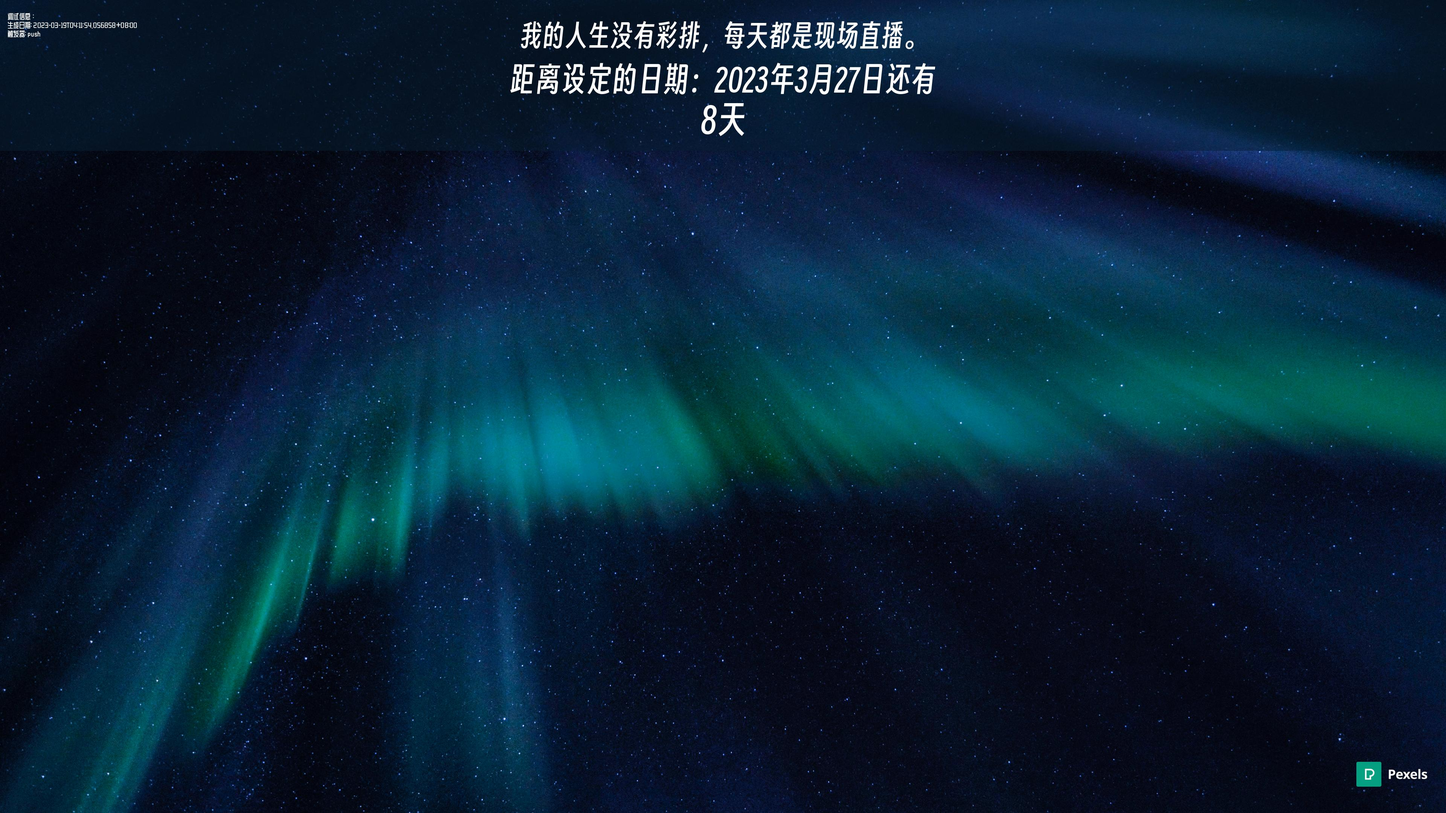
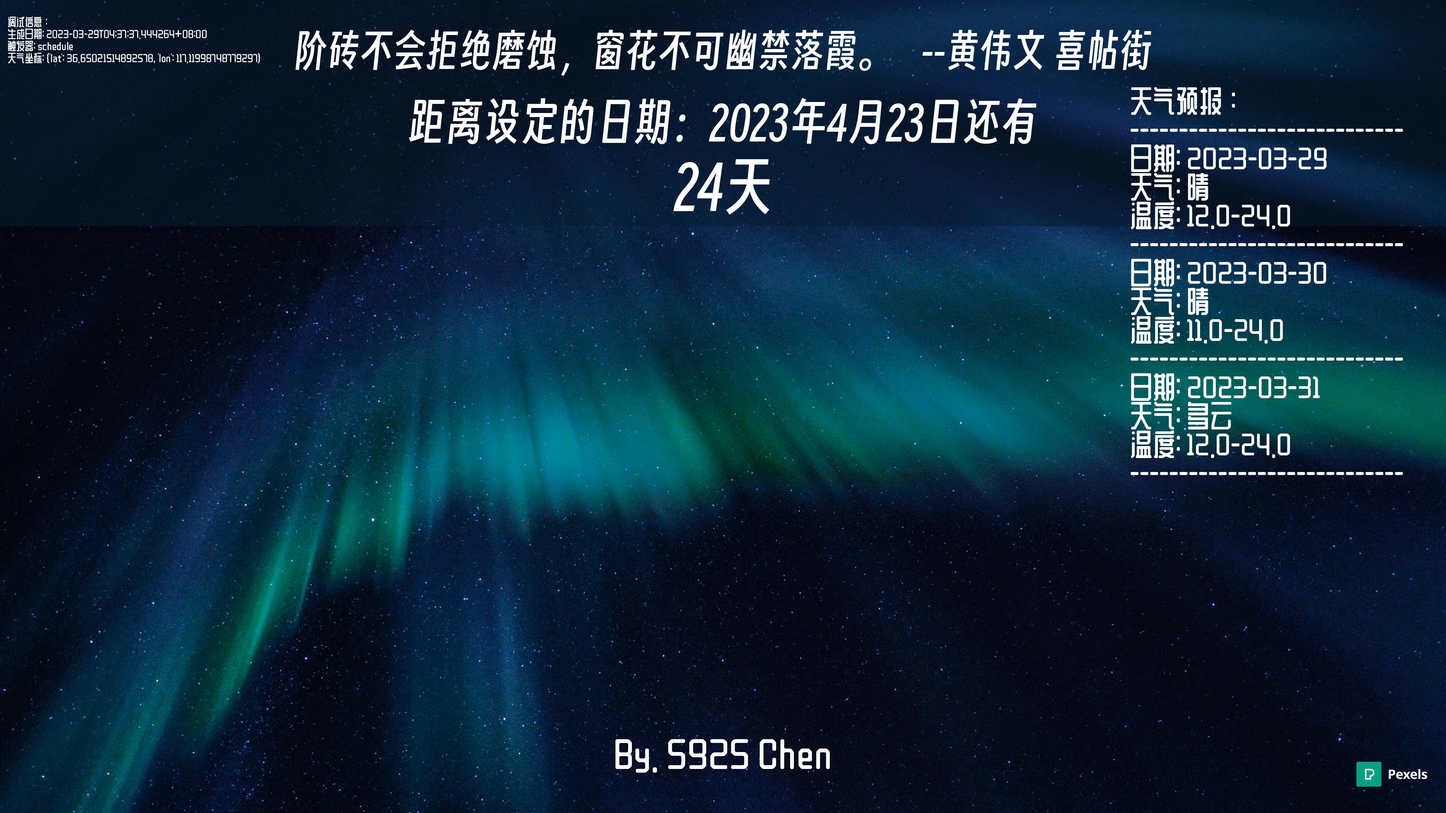
deploy: cf8d4c09c04e8638ed313656e4ba88e893b8c815

diff --git a/background/index.html b/background/index.html
@@ -971,6 +971,27 @@ Automation: <a href="../backgrounds/6DEBB2.exe">Link</a></p>
 <td align="center"><a href="../backgrounds/2232917.jpg">图片链接</a></td>
 <td align="center">push</td>
 </tr>
+<tr>
+<td align="center">2023-03-29</td>
+<td align="center">1144176</td>
+<td align="center">渔舟唱晚，响穷彭蠡之滨；雁阵惊寒，声断衡阳之浦。</td>
+<td align="center"><a href="../backgrounds/1144176.jpg">图片链接</a></td>
+<td align="center">schedule</td>
+</tr>
+<tr>
+<td align="center">2023-03-29</td>
+<td align="center">3601453</td>
+<td align="center">中秋谁与共孤光。把盏凄然北望。</td>
+<td align="center"><a href="../backgrounds/3601453.jpg">图片链接</a></td>
+<td align="center">schedule</td>
+</tr>
+<tr>
+<td align="center">2023-03-29</td>
+<td align="center">3374210</td>
+<td align="center">阶砖不会拒绝磨蚀，窗花不可幽禁落霞。</td>
+<td align="center"><a href="../backgrounds/3374210.jpg">图片链接</a></td>
+<td align="center">schedule</td>
+</tr>
 </tbody>
 </table>
 
